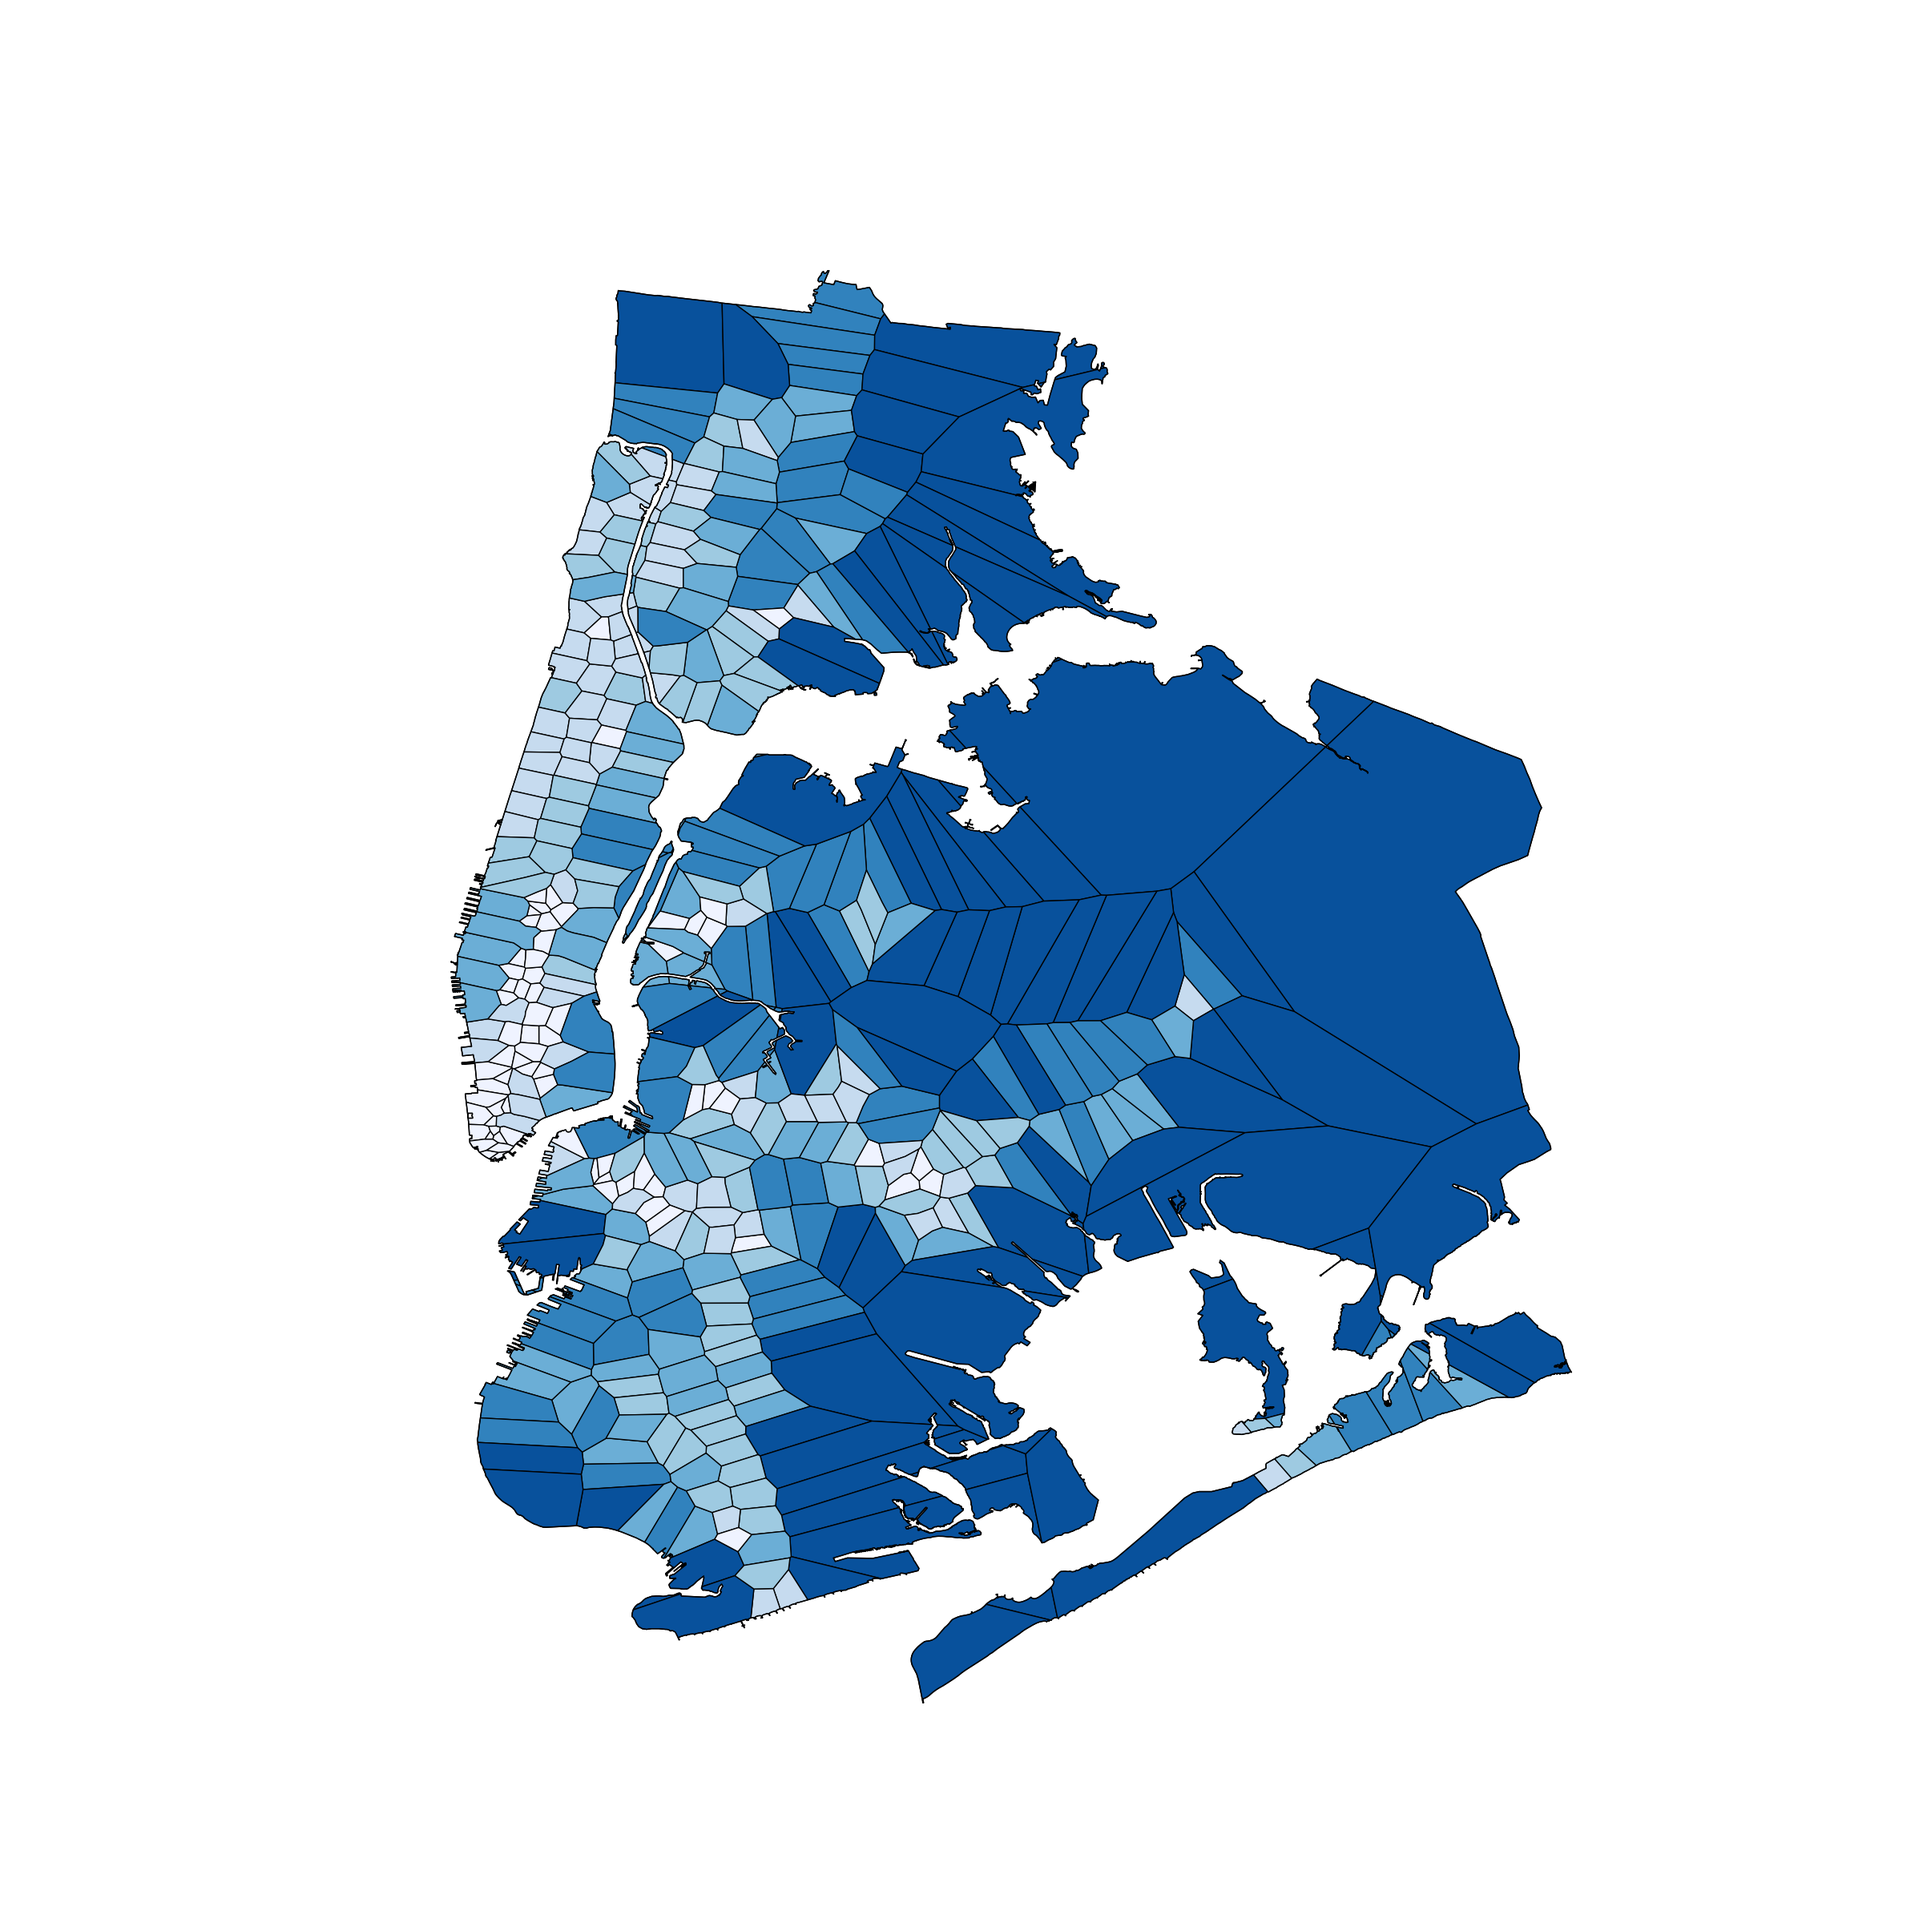
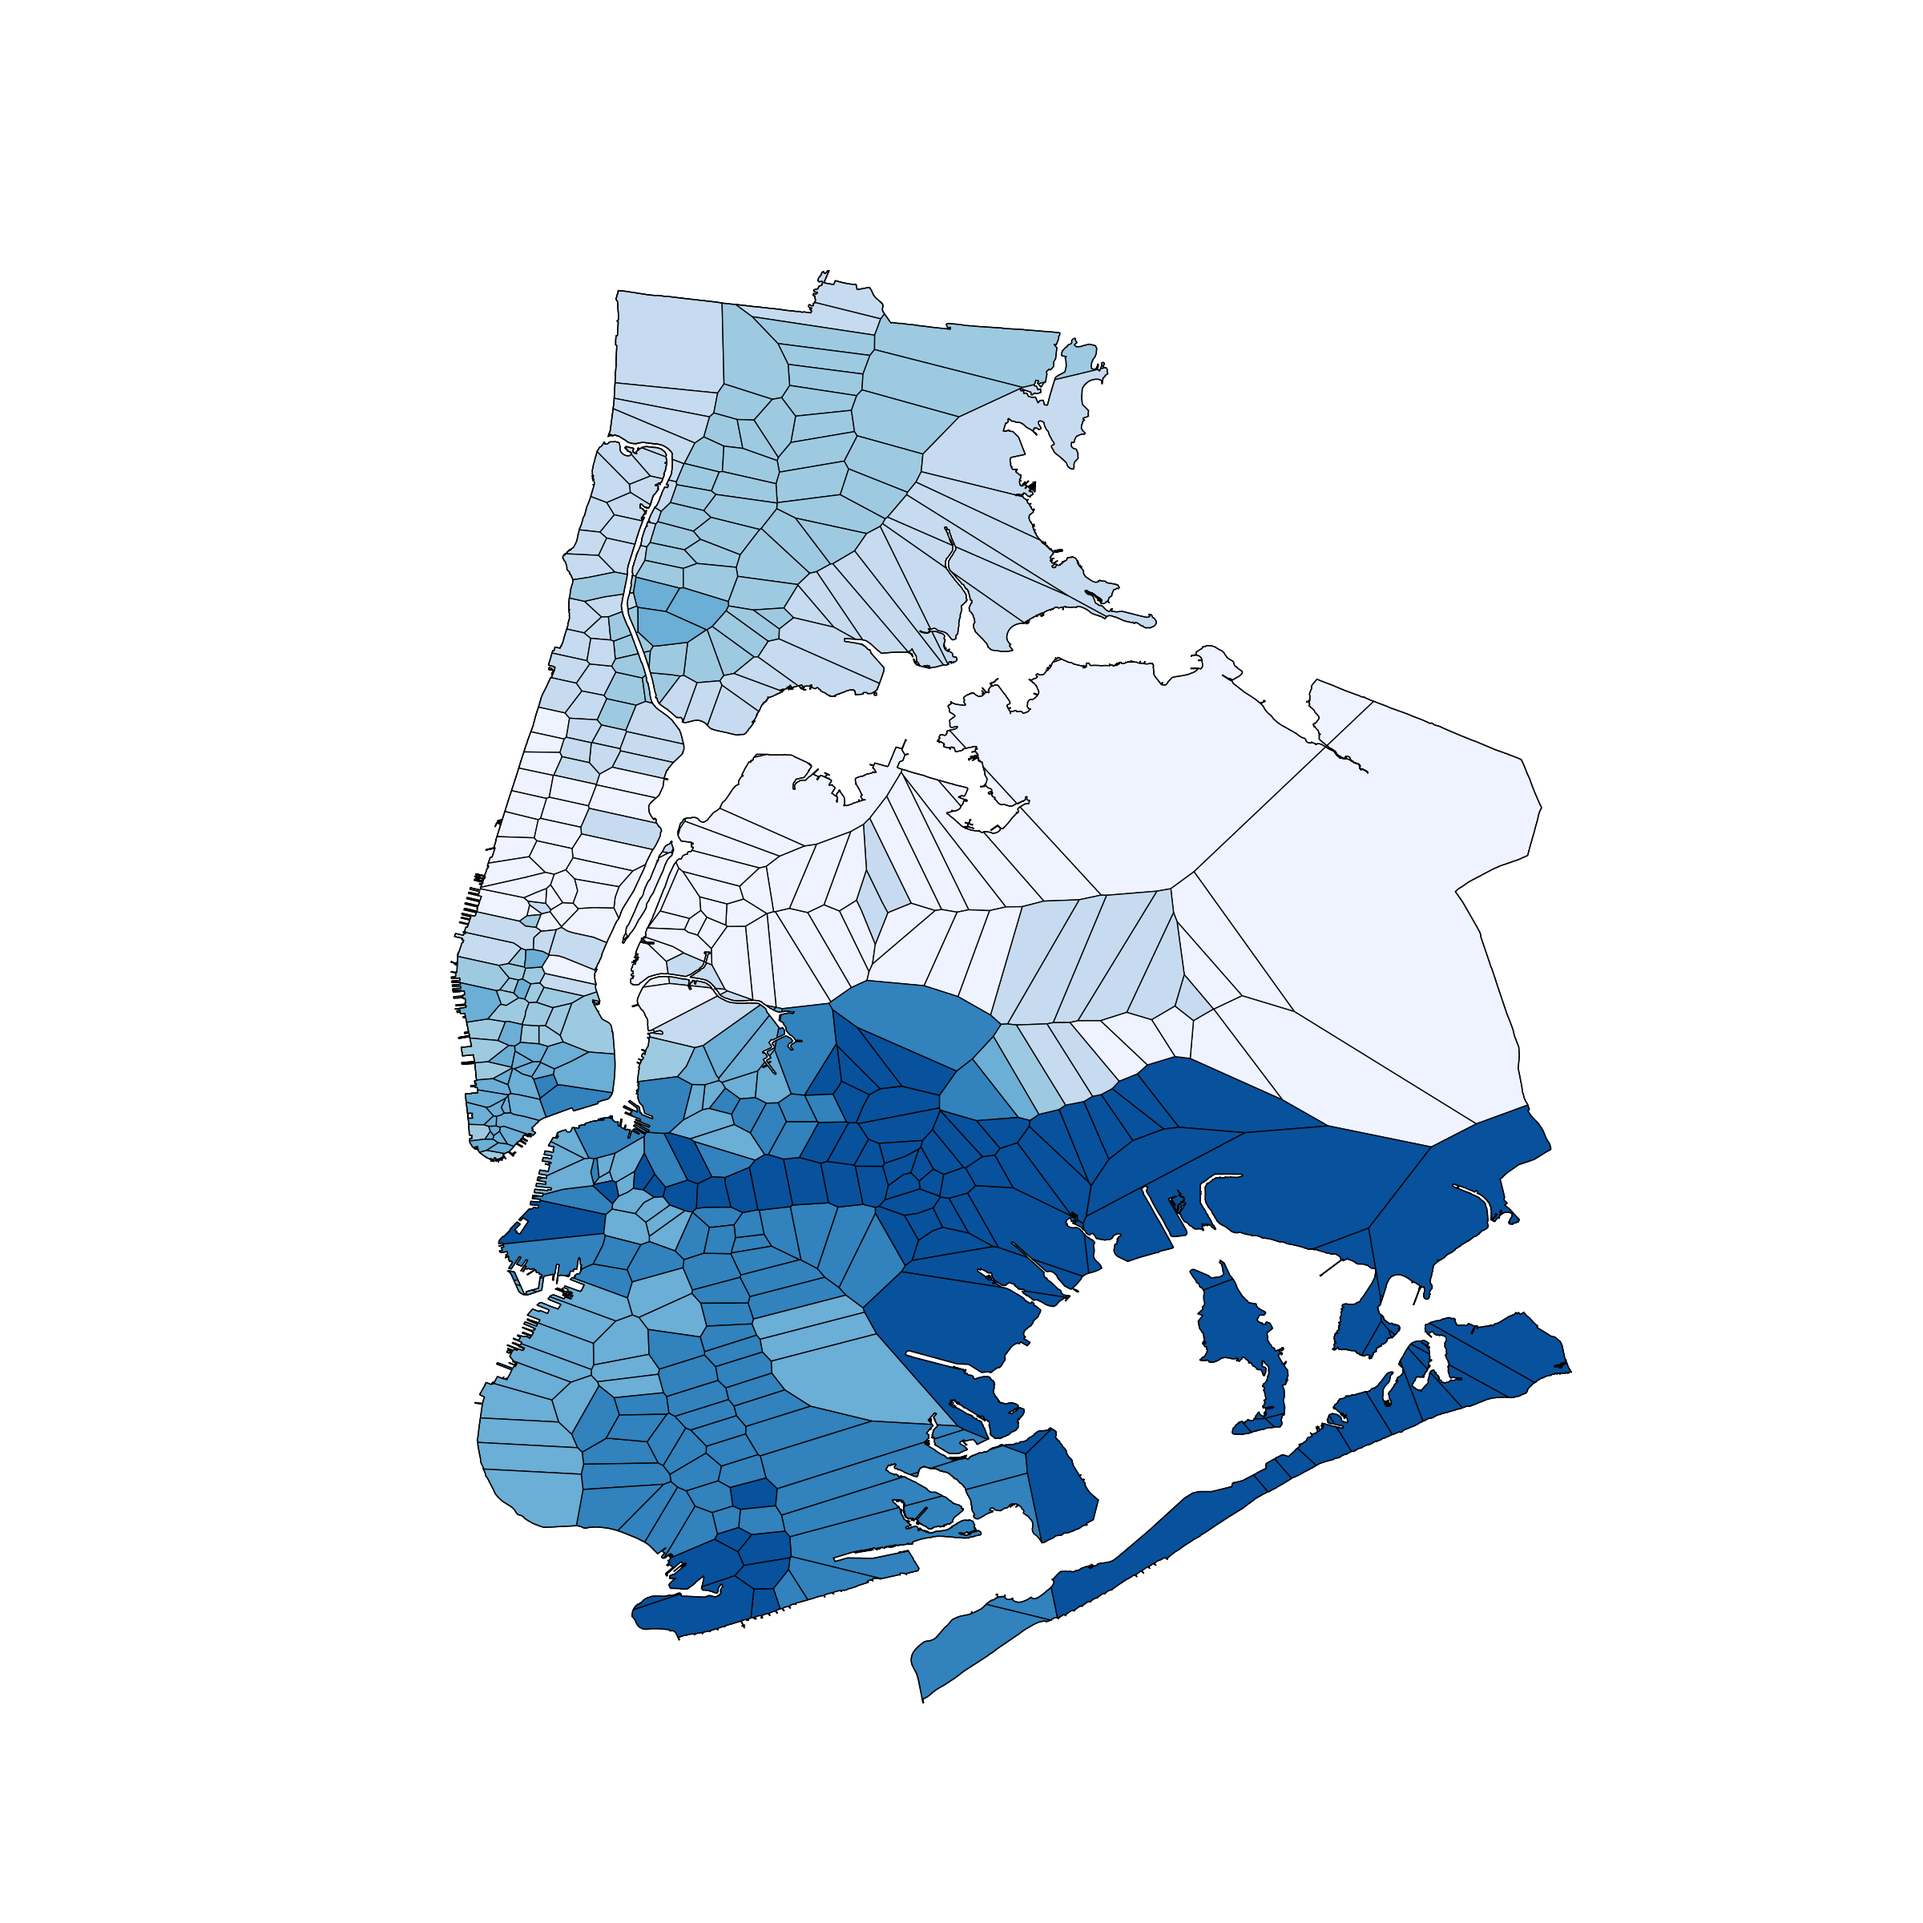
removed extra routes file

Changed region(s): [[0.2188, 0.125, 0.8125, 0.875], [0.6562, 0.6875, 0.7812, 0.7812]]

diff --git a/plot.py b/plot.py
@@ -16,6 +16,7 @@ fig.set_size_inches(24,24)
 ax.axis('off')
 
 area_measure = 'v_larea'
+area_measure = 'connectedness'
 # calculate percentiles for binning area
 q = float(100)/6
 qs = q*np.arange(7)
@@ -26,22 +27,23 @@ qs = np.vstack([qs[:-1], qs[1:]]).T
 colors = ['#EFF3FF', '#C6DBEF', '#9ECAE1', '#6BAED6', '#3182BD', '#08519C']
 for row in stops.iterrows():
     row = row[1]
-    polygon = row['region']
+    if not np.isnan(row[area_measure]):
+        polygon = row['region']
 
-    # plot region
-    # find index of bin for coloring
-    comparison = row[area_measure] <= qs
-    if np.all(comparison):
-        color_index = 0
-    else:
-        color_index = np.where(np.logical_xor(comparison[:,0],comparison[:,1]))[0][0]
-    c = colors[color_index]
+        # plot region
+        # find index of bin for coloring
+        comparison = row[area_measure] <= qs
+        if np.all(comparison):
+            color_index = 0
+        else:
+            color_index = np.where(np.logical_xor(comparison[:,0],comparison[:,1]))[0][0]
+        c = colors[color_index]
 
-    if polygon.geom_type == 'Polygon':
-        ax.add_patch(PolygonPatch(polygon,facecolor=c,edgecolor="#000000"))
-    elif polygon.geom_type == 'MultiPolygon':
-        for subpolygon in polygon:
-            ax.add_patch(PolygonPatch(subpolygon,facecolor=c,edgecolor="#000000"))
+        if polygon.geom_type == 'Polygon':
+            ax.add_patch(PolygonPatch(polygon,facecolor=c,edgecolor="#000000"))
+        elif polygon.geom_type == 'MultiPolygon':
+            for subpolygon in polygon:
+                ax.add_patch(PolygonPatch(subpolygon,facecolor=c,edgecolor="#000000"))
 
 for clip in nyc:
     x, y = clip.exterior.xy

diff --git a/voronoi.py b/voronoi.py
@@ -94,13 +94,10 @@ stops = stops[subway]
 stops.index = range(len(stops))
 
 # this still results in 4 dupes; remove each by hand
-dupes = ['718','A12','A32','N12']
-# for dupe in dupes:
-#     stops = stops[stops['stop_id']!=dupe]
-# stops = stops[stops['stop_id']!='718']
-# stops = stops[stops['stop_id']!='A12']
-# stops = stops[stops['stop_id']!='A32']
-# stops = stops[stops['stop_id']!='N12']
+# dupes = ['718','A12','A32','N12']
+dupes = ['140','N12']
+for dupe in dupes:
+    stops = stops[stops['stop_id']!=dupe]
 
 # project stop locations into Albers Equal Area
 stops_pts = np.array(stops[['stop_lon','stop_lat']])
